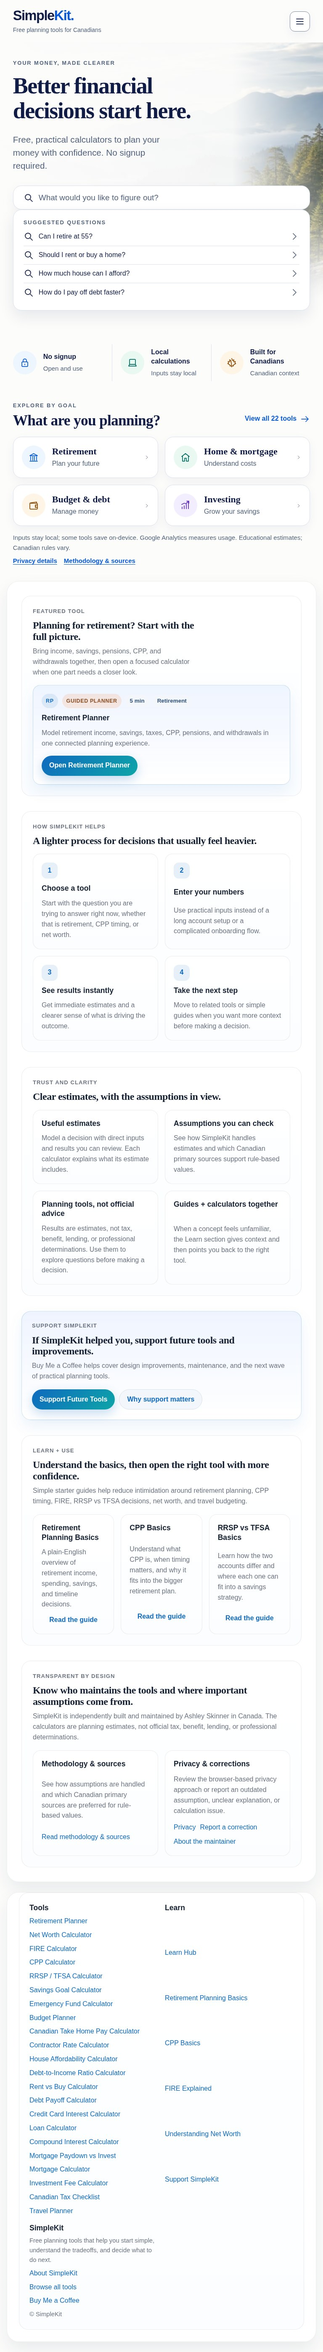
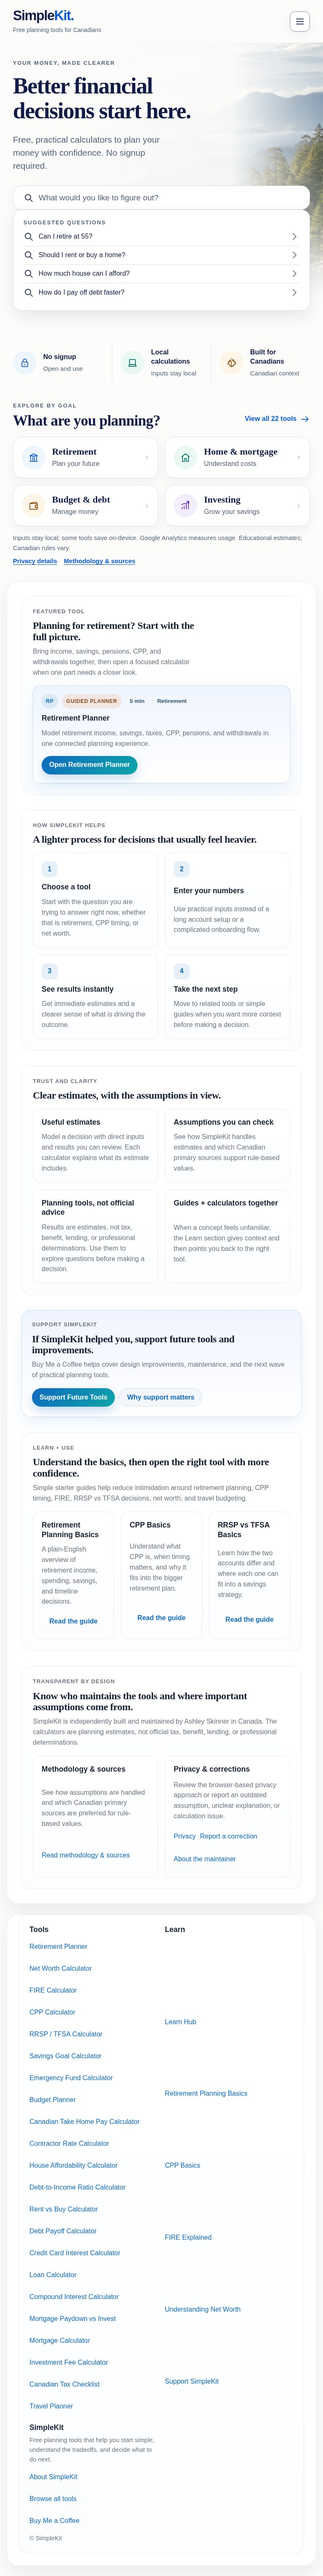
Complete homepage touch targets and accept canonical tag syntax in hosted checks

diff --git a/assets/v2/home.css b/assets/v2/home.css
@@ -65,3 +65,7 @@ body.v2-home { margin: 0; background: #fcfcfb; }
 .v2-home .v2-legacy-page { overflow-wrap: anywhere; }
 
 .sk-v2.v2-home-disclosure { padding-block: 0 1.5rem; }
+/* Preserve the wordmark's visual position while enlarging its hit area. */
+.sk-v2 .v2-wordmark { padding-block: .35rem; margin-block: -.35rem; }
+/* Retained lower-page links need the same accessible touch area as V2 cards. */
+.v2-home :is(.v2-legacy-page, .v2-legacy-footer) a { display: inline-flex; align-items: center; min-width: 2.75rem; min-height: 2.75rem; }

diff --git a/docs/v2/mobile-fidelity-issue-12/COMPARISON.md b/docs/v2/mobile-fidelity-issue-12/COMPARISON.md
@@ -50,3 +50,8 @@ NODE_PATH=/tmp/simplekit-v2-browser/node_modules CHROMIUM_PATH=/usr/bin/chromium
 ```
 
 Review four viewport/full-page captures and geometry against the approved target, list the largest remaining discrepancies, refine and repeat. Hosted checks require explicit `SIMPLEKIT_HOSTED_PREVIEW=1` and HTTPS under the dedicated `simplekit-preview.pages.dev` project. Production/lookalike hosts are rejected. The manual preview workflow captures previous/candidate deployments from GitHub's runner, checks 24 hosted routes/noindex/canonicals/robots/CNAME isolation, and runs header/search/trust/goals/all-22-fixture browser suites. Browser dependencies remain temporary and test-only. Live results will be recorded after that run completes.
+
+
+Final touch-area check: expanded the wordmark hit area without changing its visual position; retained lower-page/footer links now have ≥44px width and height. The goal acceptance suite checks every visible homepage link/button/input, including no-JS and enlarged text. All cases pass.
+
+Hosted first run: [38008821953](https://github.com/ashleysnl/simplekit-site/actions/runs/38008821953) securely captured the actual previous deployment at all four widths and uploaded candidate `dcc21ac` to `https://ace887ae.simplekit-preview.pages.dev`. Post-upload verification stopped on an overly strict HTML-format assertion for existing self-closing canonical tags. URLs were unchanged; the corrected assertion independently passes on all 22 local calculator tags. Final hosted validation is rerun with the touch-area refinement.
